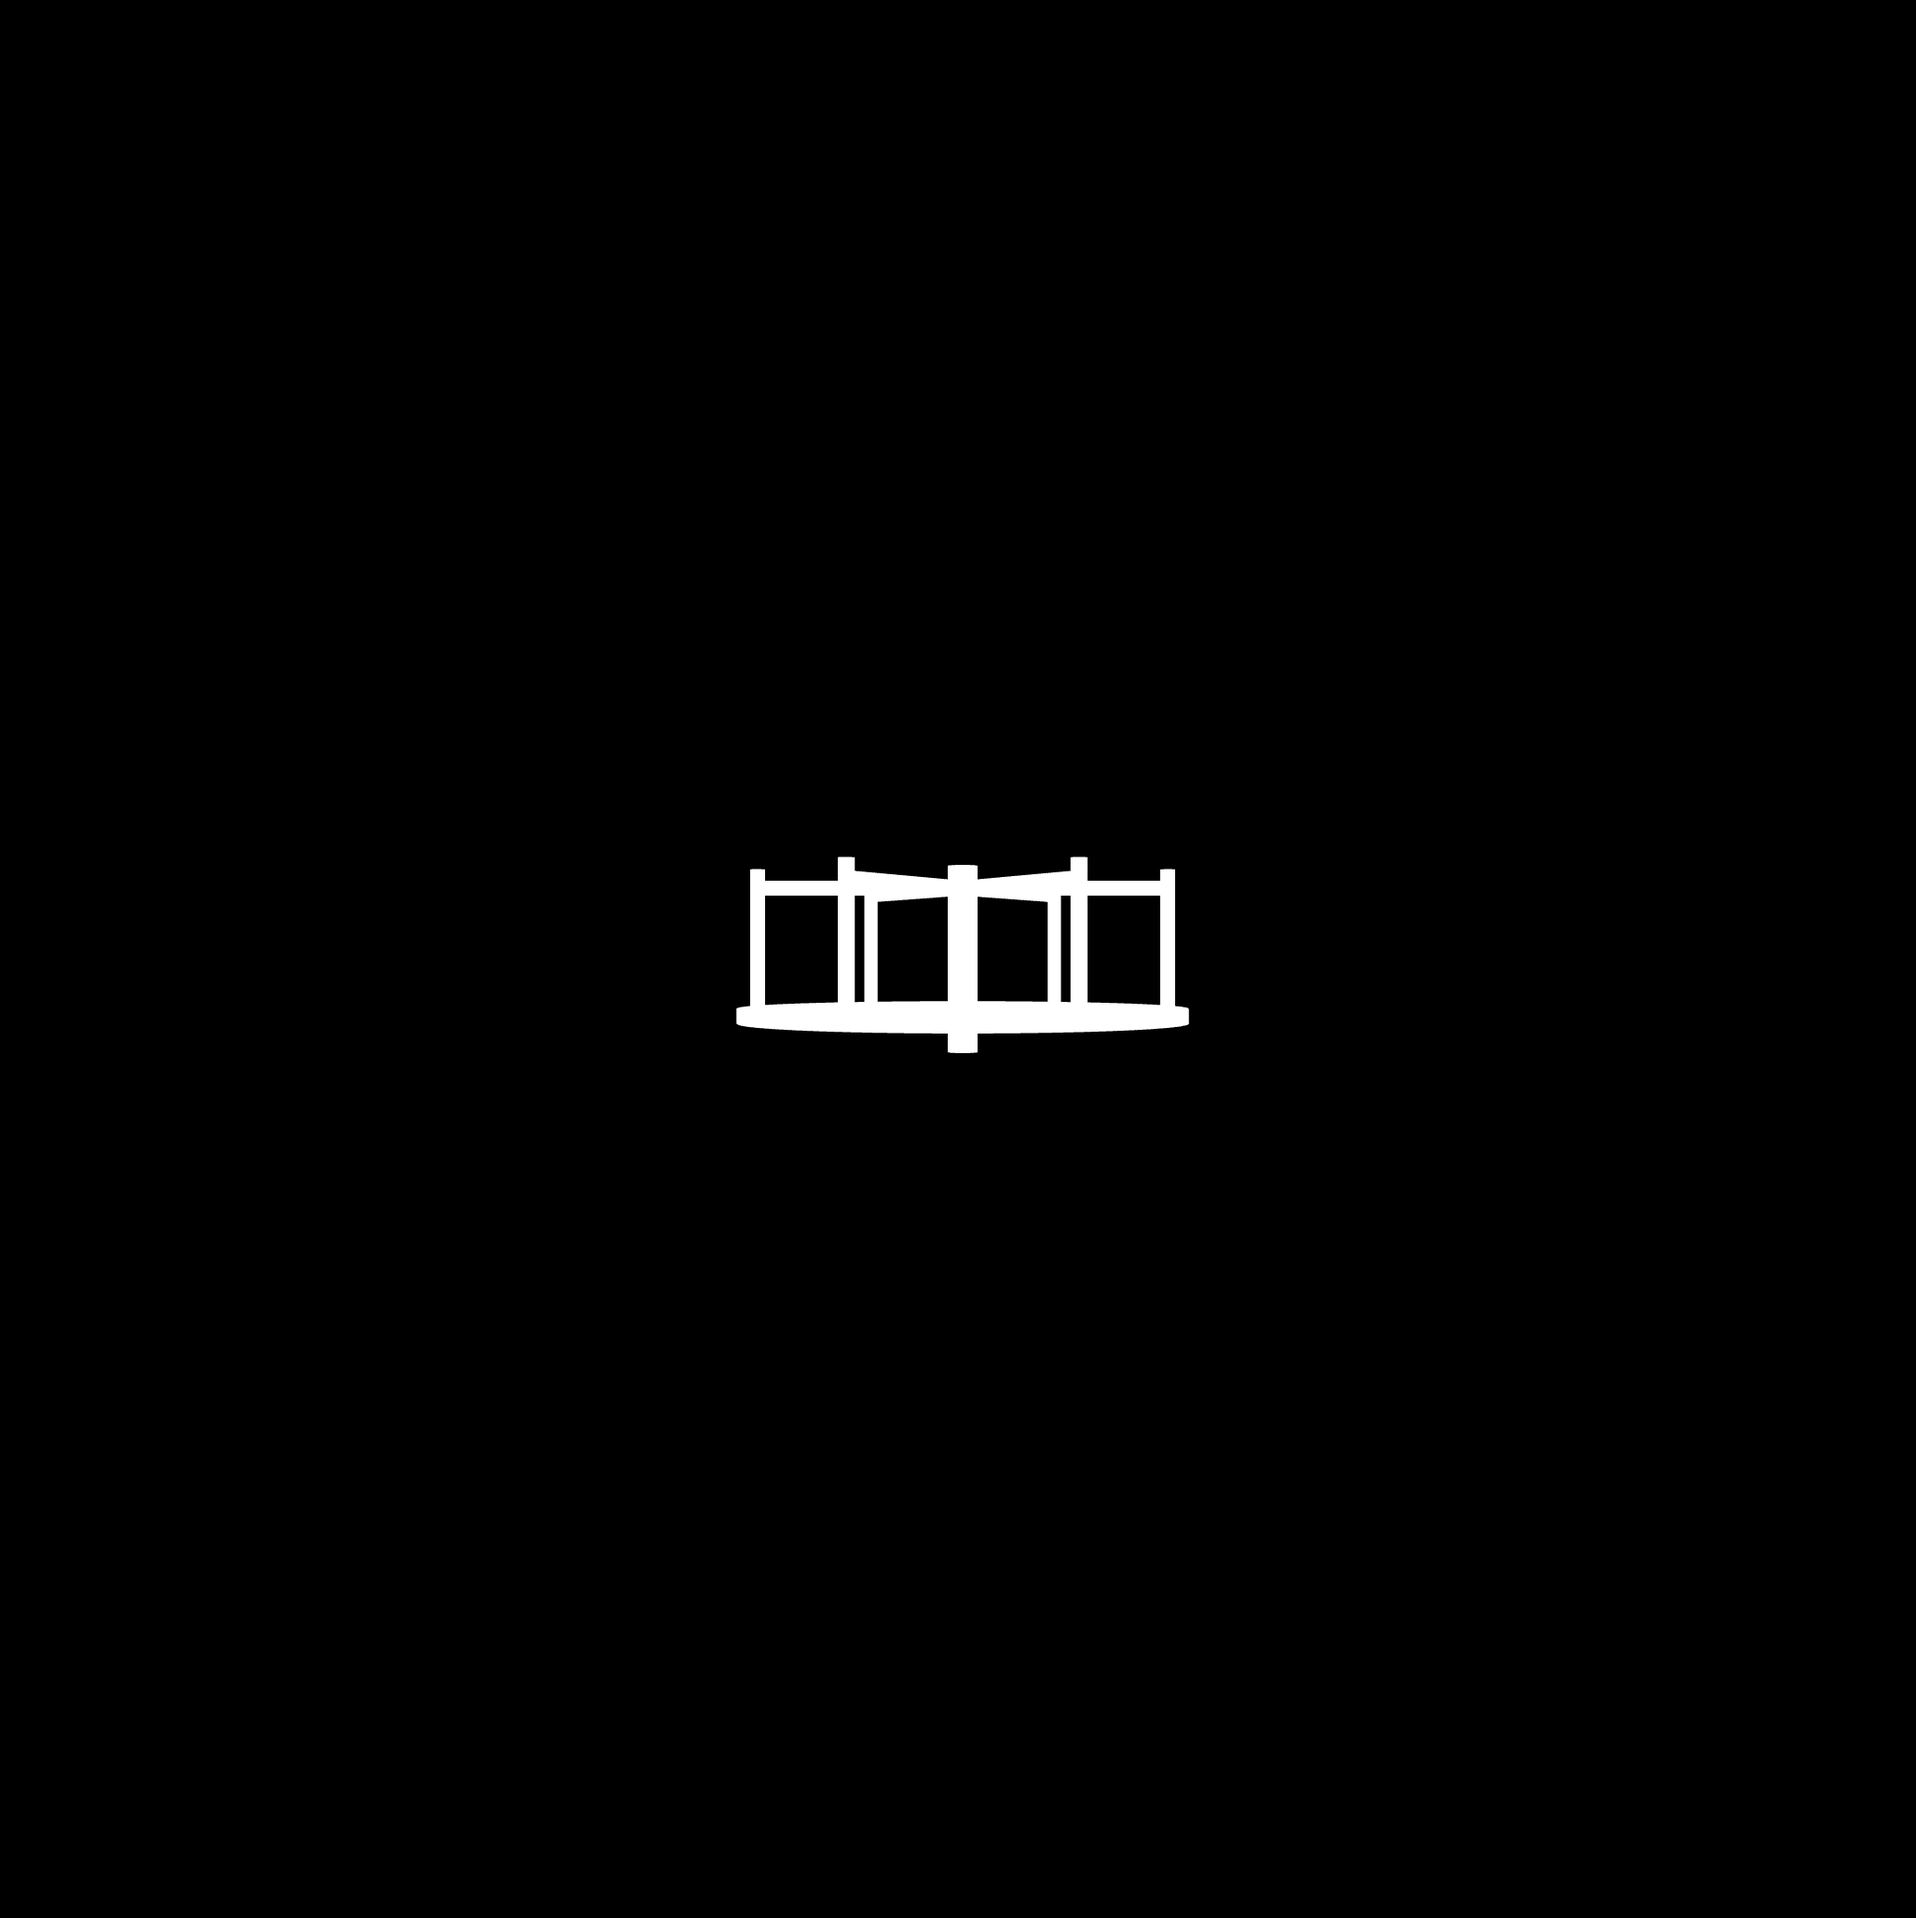
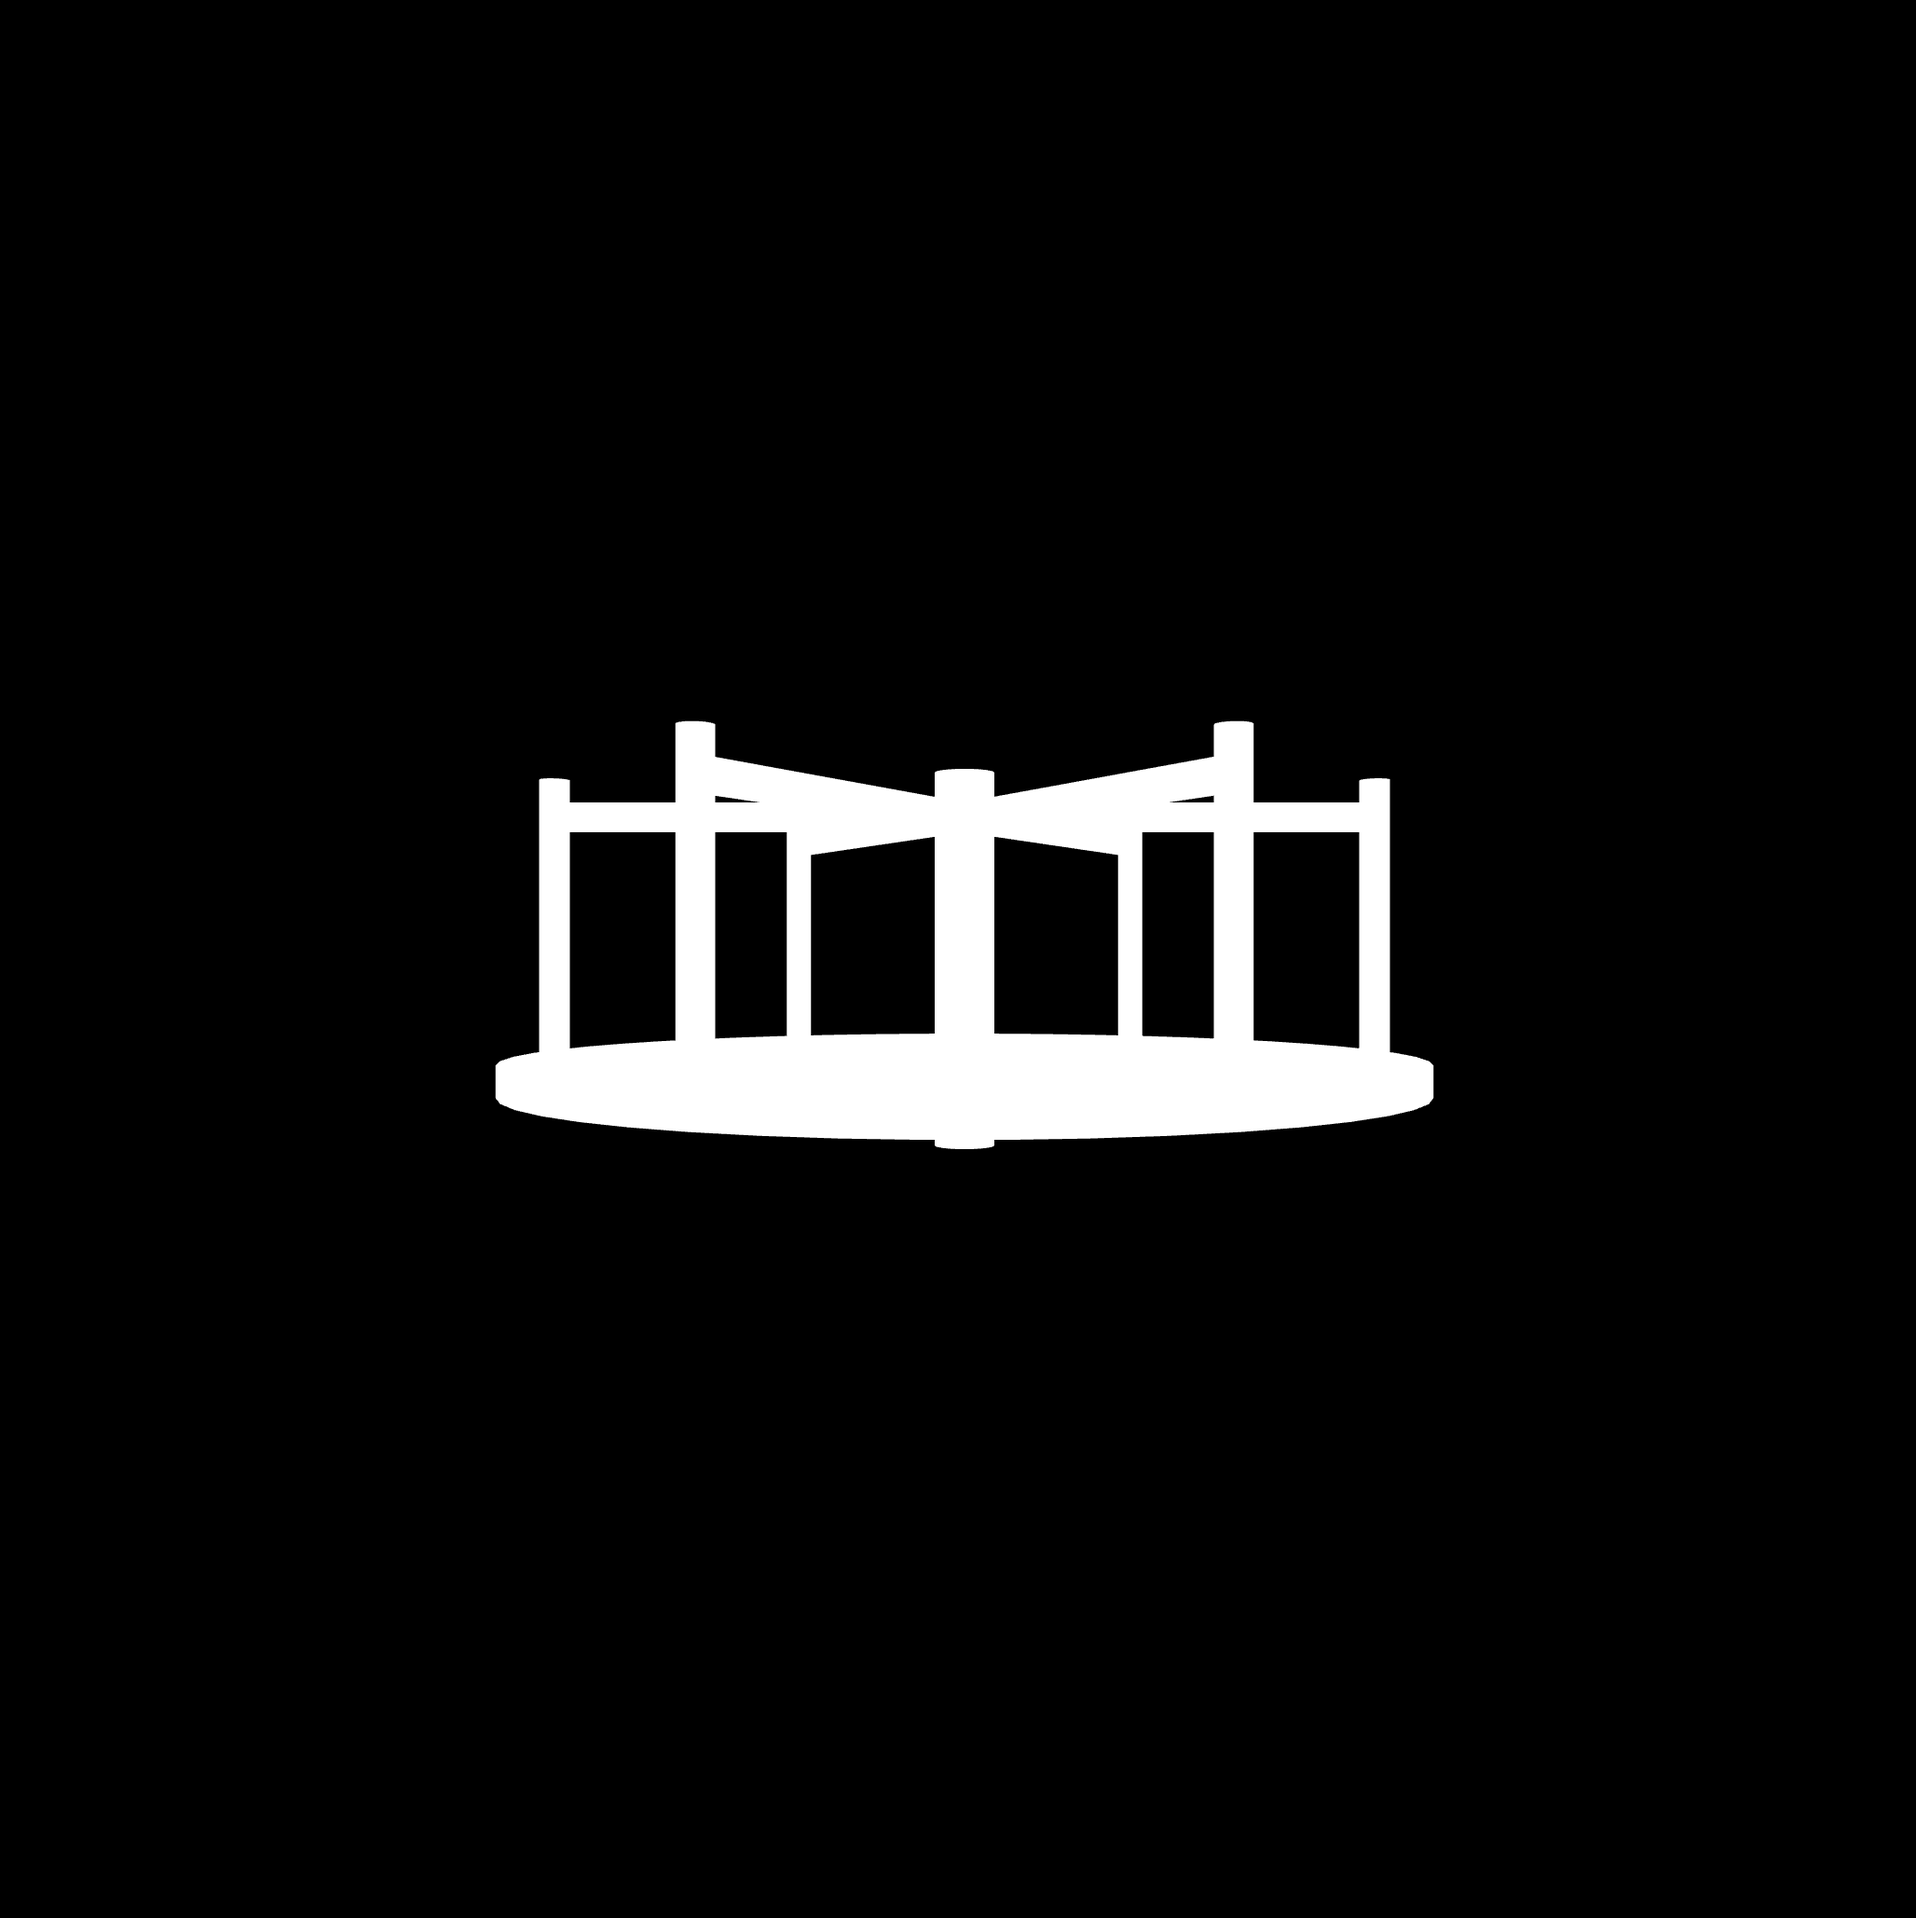
May 6 Updates

Changed region(s): [[0.249, 0.3732, 0.7471, 0.622]]

diff --git a/src/lib/data/ProjectData.ts b/src/lib/data/ProjectData.ts
@@ -6,6 +6,10 @@ export interface Project {
 	excerpt: string;
 	guide: string;
 	description: string;
+	interaction: {
+		type: 'camera' | 'click' | 'audio' | 'flash';
+		optional?: boolean;
+	}[];
 }
 
 export const projectData: Project[] = [
@@ -15,6 +19,7 @@ export const projectData: Project[] = [
 		route: '/projects/myth-of-sisyphus',
 		thumbnail: '/projects/myth-of-sisyphus/thumb.png',
 		guide: 'This project utilizes camera input.\nPlease allow access to your camera.',
+		interaction: [{ type: 'camera' }, { type: 'click' }],
 		excerpt:
 			'A visual represenation of a philosophical essay that explores the concept of the absurd and the human search for meaning in a meaningless world.',
 		description: `<p style="margin-block-start: 0;">
@@ -53,7 +58,9 @@ export const projectData: Project[] = [
 		slug: 'doors',
 		route: '/projects/doors',
 		thumbnail: '/projects/doors/thumb.png',
-		guide: 'This project contains audio.\nPlease ensure your volume is turned on.',
+		guide:
+			'This project contains audio.\nPlease ensure your volume is turned on.\nCamera input is optional.',
+		interaction: [{ type: 'audio' }, { type: 'camera', optional: true }],
 		excerpt:
 			'A continuous cylce of black and white doors representing the transitions we experience in life.',
 		description: `<p style="margin-block-start: 0;">
@@ -78,8 +85,8 @@ export const projectData: Project[] = [
 		slug: 'accumulation',
 		route: '/projects/accumulation',
 		thumbnail: '/projects/accumulation/thumb.png',
-		guide:
-			'This project contains audio and click interaction.\nPlease ensure your volume is turned on.',
+		guide: 'This project utilizes click interaction.\nAudio is optional.',
+		interaction: [{ type: 'click' }, { type: 'audio', optional: true }],
 		excerpt: 'A digital reflection of the accumulation of small, repetitive actions.',
 		description: `<p style="margin-block-start: 0;">
 			Accumulation is a digital reflection of a physical process: drawing a black circle,
@@ -112,7 +119,8 @@ export const projectData: Project[] = [
 		slug: 'zen-garden',
 		route: '/projects/zen-garden',
 		thumbnail: '/projects/zen-garden/thumb.png',
-		guide: 'This project contains audio.\nPlease ensure your volume is turned on.',
+		guide: 'Audio is optional.',
+		interaction: [{ type: 'audio', optional: true }],
 		excerpt:
 			'A visualized graphic of a Karesansui, focusing on the tranquility and patterns of the raking.',
 		description: `<p style="margin-block-start: 0;">
@@ -134,6 +142,7 @@ export const projectData: Project[] = [
 		route: '/projects/incense',
 		thumbnail: '/projects/incense/thumb.png',
 		guide: 'This project utilizes camera input.\nPlease allow access to your camera.',
+		interaction: [{ type: 'camera' }],
 		excerpt:
 			'A visualization of the burning of incense, changing directions through human interaction.',
 		description: `<p style="margin-block-start: 0;">
@@ -152,7 +161,9 @@ export const projectData: Project[] = [
 		slug: 'playground-spinner',
 		route: '/projects/playground-spinner',
 		thumbnail: '/projects/playground-spinner/thumb.png',
-		guide: 'This project contains audio.\nPlease ensure your volume is turned on.',
+		guide:
+			'This project utilizes camera input.\nPlease allow access to your camera.\nPotentially flashing content.',
+		interaction: [{ type: 'camera' }, { type: 'flash' }],
 		excerpt: 'A childhood memory.',
 		description: `<p style="margin-block-start: 0;">
 			Playground Spinner is a nostalgic trip down memory lane. It is a simple
@@ -165,7 +176,8 @@ export const projectData: Project[] = [
 		slug: 'continuance',
 		route: '/projects/continuance',
 		thumbnail: '/projects/continuance/thumb.png',
-		guide: 'No interaction required.',
+		guide: 'Camera input is optional.',
+		interaction: [{ type: 'camera', optional: true }],
 		excerpt: 'A fictional story of an artist finding their way through a mundane cycle',
 		description: `<p style="margin-block-start: 0;">
 			The Continuance is a finctional story of an artist finding their way through a mundane cycle.

diff --git a/static/projects/doors/sketch.js b/static/projects/doors/sketch.js
@@ -19,13 +19,91 @@ let isWhiteScene = false;
 let opacity = 255;
 let fadeStartTime = 0;
 
+// For body pose detection
+let video;
+let bodyPose;
+let poses = [];
+let cameraRotation = 0;
+let isVisible = false;
+
+function preload() {
+	bodyPose = ml5.bodyPose({ flipped: true });
+}
+
 function setup() {
 	createCanvas(windowWidth, windowHeight, WEBGL);
 	background(0);
+
+	// Set up intersection observer
+	const observer = new IntersectionObserver(
+		(entries) => {
+			entries.forEach((entry) => {
+				isVisible = entry.isIntersecting;
+				if (isVisible) {
+					// Start camera when visible
+					if (!video) {
+						video = createCapture(VIDEO, { flipped: true });
+						video.size(width, height);
+						video.hide();
+						bodyPose.detectStart(video, gotPoses);
+					}
+				} else {
+					// Stop camera when not visible
+					if (video) {
+						video.remove();
+						video = null;
+						bodyPose.detectStop();
+					}
+				}
+			});
+		},
+		{ threshold: 0.5 }
+	); // Trigger when 50% of the iframe is visible
+
+	// Start observing the canvas
+	observer.observe(canvas);
+}
+
+function gotPoses(results) {
+	poses = results;
+}
+
+function updateCameraRotation() {
+	if (!isVisible || !poses.length) return;
+
+	let facePose = poses[0];
+	let validPoints = 0;
+	let sum = 0;
+
+	// Using direct property access which is more reliable
+	const faceKeypoints = [
+		facePose.nose,
+		facePose.left_eye,
+		facePose.right_eye,
+		facePose.left_ear,
+		facePose.right_ear
+	];
+
+	// Average facial keypoints
+	for (let i = 0; i < faceKeypoints.length; i++) {
+		if (faceKeypoints[i] && faceKeypoints[i].confidence > 0.3) {
+			sum += faceKeypoints[i].x;
+			validPoints++;
+		}
+	}
+
+	if (validPoints > 0) {
+		// Calculate normalized position (-1 to 1)
+		let normalizedX = (sum / validPoints / width) * 2 - 1;
+		// Map to rotation angle (1 to -1 degrees, inverted)
+		let targetRotation = map(normalizedX, -1, 1, 0.5, -0.5);
+		// Smoothly transition to new rotation
+		cameraRotation = lerp(cameraRotation, targetRotation, 0.1);
+	}
 }
 
 function draw() {
-	//orbitControl(1, 0, 1);
+	// orbitControl(1, 0, 0);
 
 	let progress = map(currentOffset.z, FINAL_MOVEMENT, FINAL_MOVEMENT + 400, 0, 1);
 	progress = constrain(progress, 0, 1);
@@ -35,6 +113,11 @@ function draw() {
 	background(bgColor);
 	lights();
 	noStroke();
+
+	// Update camera rotation based on face position
+	updateCameraRotation();
+	// Apply camera rotation
+	rotateY(cameraRotation);
 
 	// fade-in effect for scene transition
 	if (fadeStartTime > 0) {

diff --git a/src/lib/components/ProjectGateway.svelte b/src/lib/components/ProjectGateway.svelte
@@ -7,6 +7,10 @@
 		route: string;
 		guide: string;
 		description: string;
+		interaction: {
+			type: 'camera' | 'click' | 'audio';
+			optional?: boolean;
+		}[];
 	}
 
 	export let project: Project;
@@ -35,7 +39,18 @@
 	<div class="description">
 		{@html project.description}
 	</div>
-	<div class="guide">{project.guide}</div>
+	<div class="guide">
+		<div class="interaction-icons">
+			{#each project.interaction as interaction}
+				<img
+					src="/icons/{interaction.type}.svg"
+					alt="{interaction.type} interaction"
+					class:optional={interaction.optional}
+				/>
+			{/each}
+		</div>
+		<div class="guide-text">{project.guide}</div>
+	</div>
 	<button on:click={handleEnter}>↳ Enter</button>
 </div>
 
@@ -58,14 +73,35 @@
 
 	.guide {
 		display: flex;
+		flex-direction: column;
 		align-items: center;
+		gap: 1rem;
 		justify-content: center;
-		white-space: pre-wrap;
-		text-align: center;
+		background-color: #000;
+		padding: 1rem;
+	}
+
+	.interaction-icons {
+		display: flex;
+		flex-direction: row;
+		gap: 0.5rem;
+		align-items: center;
+	}
+
+	.interaction-icons img {
+		width: 48px;
+		height: 48px;
+	}
+
+	.interaction-icons img.optional {
+		opacity: 0.2;
+	}
+
+	.guide-text {
 		font-size: 1.2rem;
 		line-height: 1.5;
-		padding: 1rem;
-		background-color: #000;
+		white-space: pre-wrap;
+		text-align: center;
 	}
 
 	button {
@@ -108,6 +144,15 @@
 			white-space: pre-line;
 			border-top: 2px solid white;
 			box-shadow: 0 0 10px 0 rgba(0, 0, 0, 0.5);
+		}
+
+		.guide-text {
+			font-size: 1rem;
+		}
+
+		.interaction-icons img {
+			width: 36px;
+			height: 36px;
 		}
 
 		button {

diff --git a/static/projects/doors/index.html b/static/projects/doors/index.html
@@ -2,6 +2,7 @@
 <html lang="en">
 	<head>
 		<script src="https://cdnjs.cloudflare.com/ajax/libs/p5.js/1.10.0/p5.js"></script>
+		<script src="https://unpkg.com/ml5@1/dist/ml5.min.js"></script>
 		<link rel="preconnect" href="https://rsms.me/" />
 		<link rel="stylesheet" href="https://rsms.me/inter/inter.css" />
 		<link rel="stylesheet" type="text/css" href="style.css" />
@@ -13,25 +14,6 @@
 			<audio id="background-music" loop autoplay>
 				<source src="loops.mp3" type="audio/mpeg" />
 			</audio>
-			<!-- <div id="info-icon">
-				<span class="info">ⓘ</span>
-			</div>
-			<div id="info-container">
-				<p>
-					Doors act as gateways that allow us to move through space, much like the transitions we
-					experience in life. We enter and exit different phases, and each doorway transforms who we
-					are. Just as an infinite stairway ascends through these transitions, we progress from
-					child to adult, student to professional, and beyond as each role shapes our identity with
-					every step.
-				</p>
-				<p>
-					The alternating black and white doors symbolize the ongoing cycle and duality of
-					existence, such as life and death, light and darkness, and beginnings and endings. As we
-					walk through this unending corridor of doors, we witness how each transition reshapes us
-					and guides us toward our next transformation. The journey continues infinitely, reminding
-					us that every ending is simply the start of a new beginning.
-				</p>
-			</div> -->
 		</main>
 		<script src="sketch.js"></script>
 		<script src="script.js"></script>

diff --git a/static/projects/continuance/the-coffee/sketch.js b/static/projects/continuance/the-coffee/sketch.js
@@ -156,7 +156,7 @@ function draw() {
 	rotateY(cameraRotation);
 
 	//lights();
-	orbitControl(1, 0, 0);
+	// orbitControl(1, 0, 0);
 
 	push();
 	fill(15);
